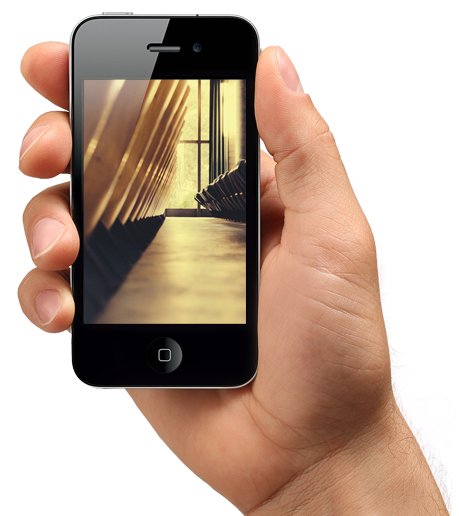
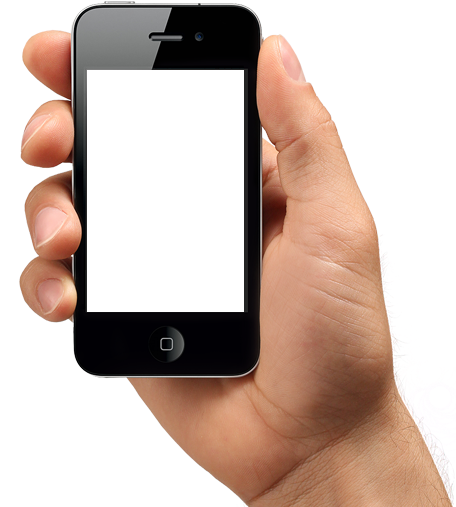
fix slider in header => add new img to slider, add z-index

diff --git a/index.html b/index.html
@@ -50,17 +50,17 @@
 
       <!-- iphone img wrapper -->
       <div class="iphone d-none d-md-flex col-md-6 align-self-end">
-        <img src="img/iphone.png" alt="" class="img-fluid">
+        <img src="img/iphone.png" alt="" class="iphone__img img-fluid">
         <div class="iphone__slider carousel slide" data-ride="carousel">
           <div class="carousel-inner">
             <div class="carousel-item active">
-              <img src="img/small.png" class="d-block w-100" alt="">
+              <img src="/img/iphone_slider_1.jpg" class="d-block w-100" alt="">
             </div>
             <div class="carousel-item">
-              <img src="img/small.png" class="d-block w-100" alt="">
+              <img src="/img/iphone_slider_2.jpg" class="d-block w-100" alt="">
             </div>
             <div class="carousel-item">
-              <img src="img/small.png" class="d-block w-100" alt="">
+              <img src="/img/iphone_slider_3.jpg" class="d-block w-100" alt="">
             </div>
           </div>
 

diff --git a/css/main.css b/css/main.css
@@ -48,13 +48,17 @@ header::before {
   position: relative;
 }
 
+.iphone__img {
+  z-index: 2;
+}
+
 .iphone__slider {
   position: absolute;
-  top: 15%;
+  top: 10%;
   left: 20%;
-  width: 34%;
-  height: 49%;
-  background-color: red;
+  width: 40%;
+  height: 80%;
+  z-index: 1;
 }
 
 /* set icons' propert */

diff --git a/js/main.js b/js/main.js
@@ -1,7 +1,7 @@
 // header carousel interval
 
 $('.carousel').carousel({
-    interval: 5000
+    interval: 3000
 })
 
 
